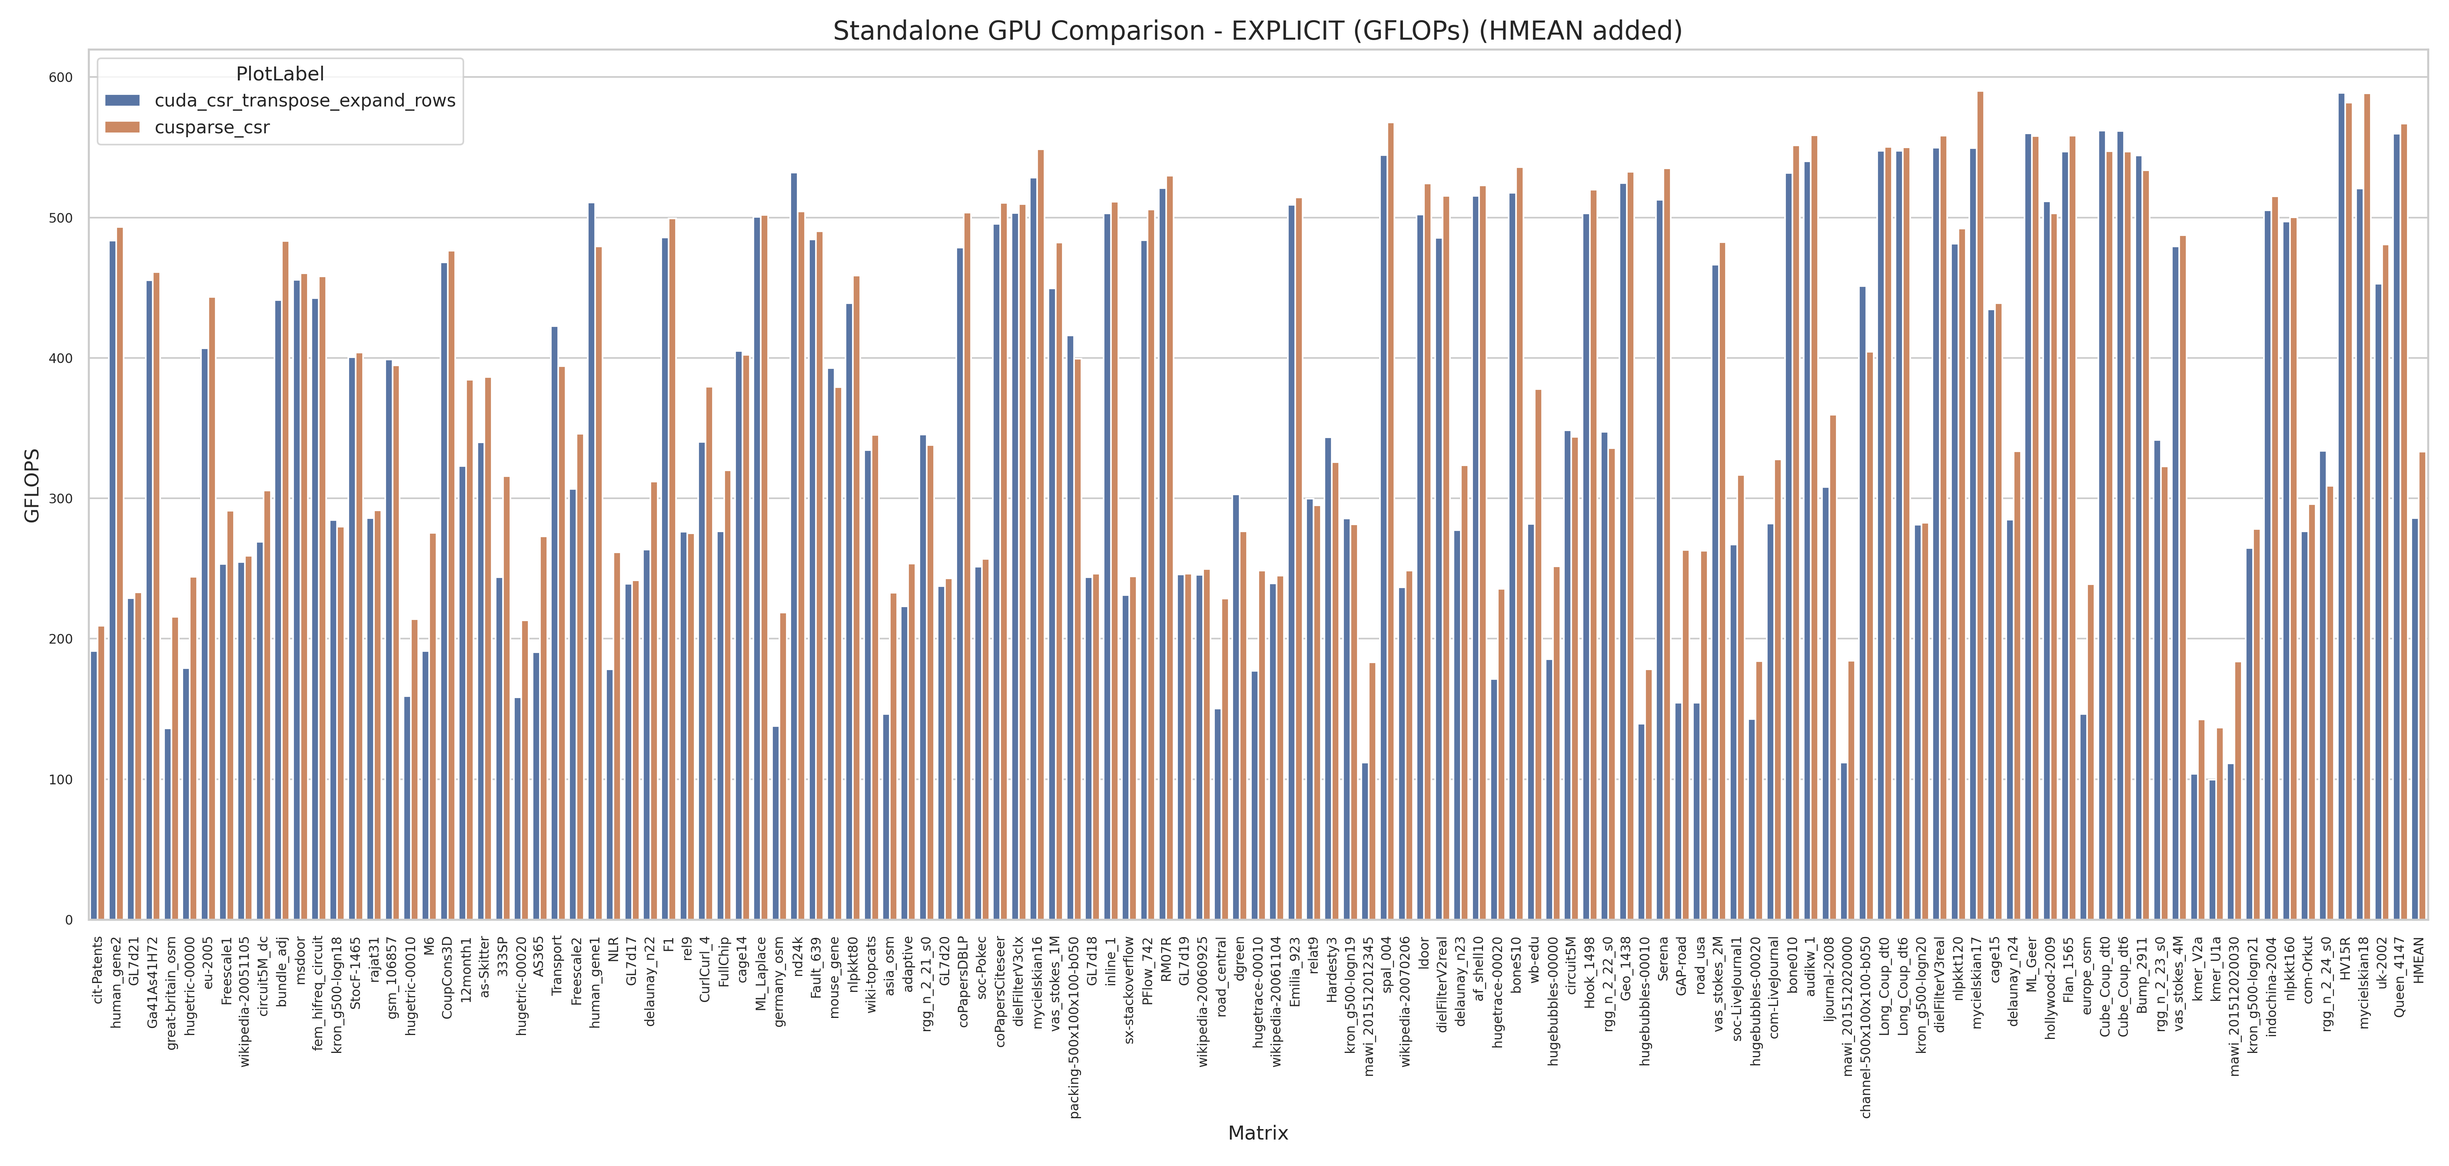
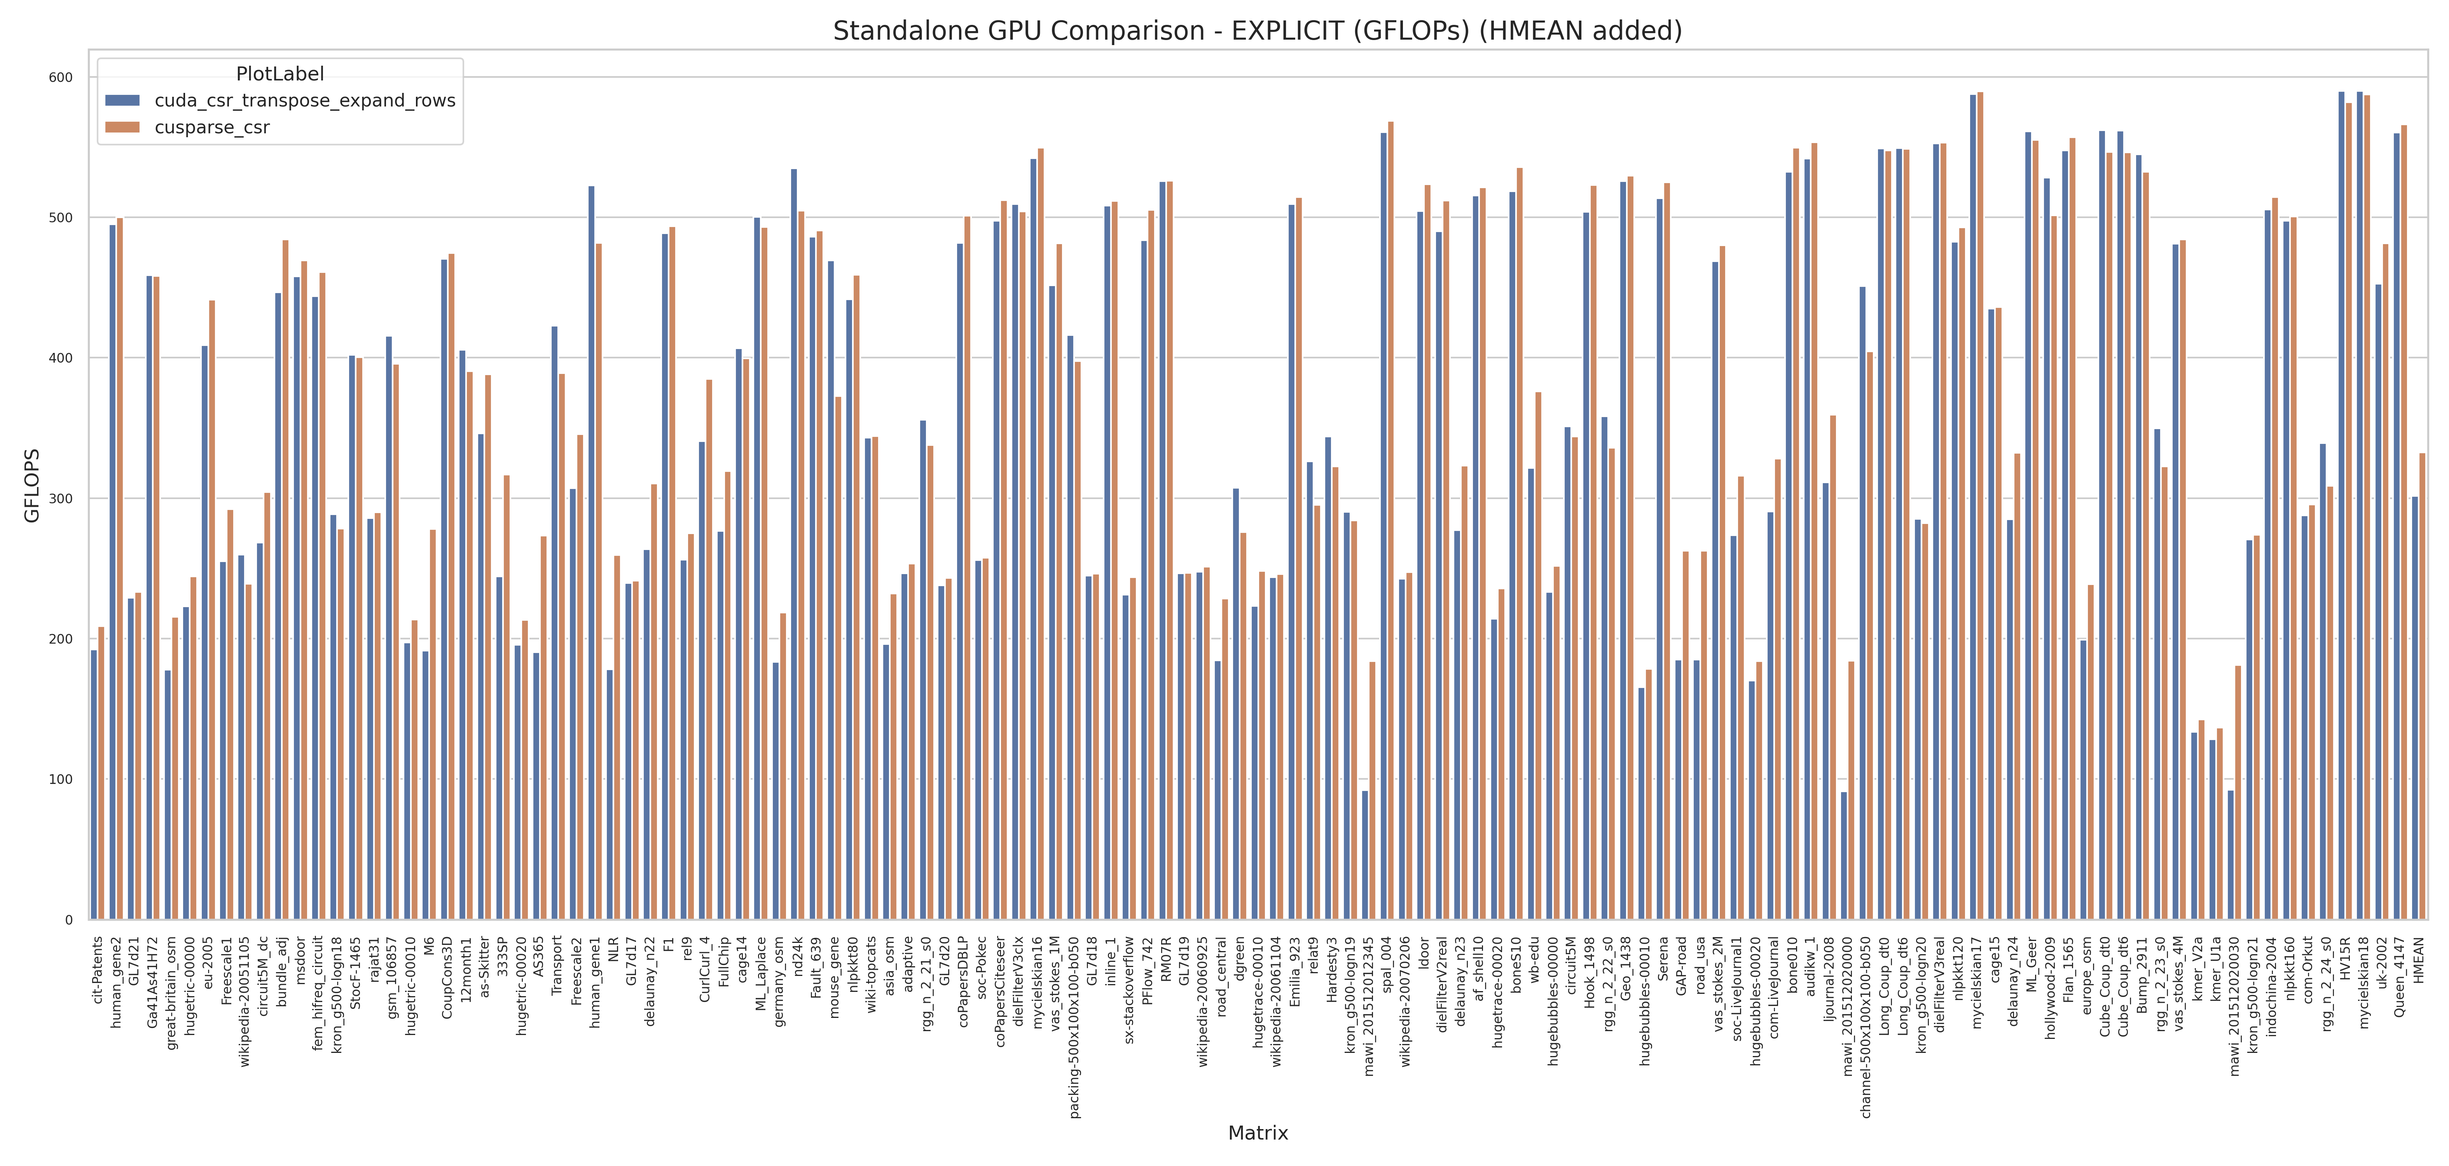
Fixed parsing script and produced plots after re-running everything from scratch

Changed region(s): [[0.6844, 0.558, 0.7156, 0.62], [0.9022, 0.651, 0.9333, 0.682], [0.1867, 0.31, 0.2178, 0.341]]

diff --git a/benchmark_code/BENCH_HYBRID/data_analysis/parse_and_plot_work_removal.py b/benchmark_code/BENCH_HYBRID/data_analysis/parse_and_plot_work_removal.py
@@ -39,6 +39,9 @@ def add_mean_row(df, metric, group_col, mean_type='hmean'):
 
     return pd.concat([df, pd.DataFrame(mean_rows)], ignore_index=True)
 
+'''
+Specifically parses logs formatted as standalone_*_REMOVE_*.out, extracting the removed rows/NNZ and remaining performance metrics.
+'''
 def parse_logs(log_dir):
     all_data = []
     matrix_order = []
@@ -47,94 +50,101 @@ def parse_logs(log_dir):
         print(f"Directory {log_dir} does not exist.")
         return pd.DataFrame(), []
 
-    filenames = sorted(os.listdir(log_dir))
+    run_dirs = [d for d in os.listdir(log_dir) if os.path.isdir(os.path.join(log_dir, d)) and d.startswith('run')]
+    if not run_dirs:
+        run_dirs = ['.']
 
-    for filename in filenames:
-        if not filename.endswith('.out'):
-            continue
-            
-        m = re.match(r'^(COLIND0_)?standalone_(.*?)_REMOVE_(NONE|CONTIGUOUS|SHORTEST|BAD_ZONES_ROWS|BAD_ZONES_BW|BAD_ZONES_CL|BAD_ZONES_PAD)(?:_(\d+))?_MALLOC_nv_d\.out$', filename)
-        if not m:
-            continue
-            
-        is_colind0 = bool(m.group(1))
-        kernel = m.group(2)
-        method_raw = m.group(3)
-        ratio = int(m.group(4)) if m.group(4) else None
-        
-        if is_colind0:
-            if method_raw != 'NONE':
+    for run_name in sorted(run_dirs):
+        current_run_path = os.path.join(log_dir, run_name)
+        if not os.path.isdir(current_run_path): continue
+        filenames = sorted(os.listdir(current_run_path))
+
+        for filename in filenames:
+            if not filename.endswith('.out'):
                 continue
-            method = 'COLIND0'
-        else:
-            method_map = {
-                'NONE': 'Original',
-                'CONTIGUOUS': 'Contiguous',
-                'SHORTEST': 'Shortest',
-                'BAD_ZONES_ROWS': 'Bad zones (Rows)',
-                'BAD_ZONES_BW': 'Bad zones (BW)',
-                'BAD_ZONES_CL': 'Bad zones (CL)',
-                'BAD_ZONES_PAD': 'Bad zones (Pad)'
-            }
-            method = method_map.get(method_raw)
-        
-        filepath = os.path.join(log_dir, filename)
-        with open(filepath, 'r') as f:
-            content = f.read()
+                
+            m = re.match(r'^(COLIND0_)?standalone_(.*?)_REMOVE_(NONE|CONTIGUOUS|SHORTEST|BAD_ZONES_ROWS|BAD_ZONES_BW|BAD_ZONES_CL|BAD_ZONES_PAD)(?:_(\d+))?_MALLOC_nv_d\.out$', filename)
+            if not m:
+                continue
+                
+            is_colind0 = bool(m.group(1))
+            kernel = m.group(2)
+            method_raw = m.group(3)
+            ratio = int(m.group(4)) if m.group(4) else None
             
-            blocks = content.split('------------------------\n')
-            for block in blocks[1:]:
-                lines = block.strip().split('\n')
-                if len(lines) < 2: continue
+            if is_colind0:
+                if method_raw != 'NONE':
+                    continue
+                method = 'COLIND0'
+            else:
+                method_map = {
+                    'NONE': 'Original',
+                    'CONTIGUOUS': 'Contiguous',
+                    'SHORTEST': 'Shortest',
+                    'BAD_ZONES_ROWS': 'Bad zones (Rows)',
+                    'BAD_ZONES_BW': 'Bad zones (BW)',
+                    'BAD_ZONES_CL': 'Bad zones (CL)',
+                    'BAD_ZONES_PAD': 'Bad zones (Pad)'
+                }
+                method = method_map.get(method_raw)
+            
+            filepath = os.path.join(current_run_path, filename)
+            with open(filepath, 'r') as f:
+                content = f.read()
+            
+                blocks = content.split('------------------------\n')
+                for block in blocks[1:]:
+                    lines = block.strip().split('\n')
+                    if len(lines) < 2: continue
                 
-                matrix_path = lines[0]
-                matrix_name = os.path.basename(matrix_path).replace('.mtx', '')
-                if matrix_name not in matrix_order:
-                    matrix_order.append(matrix_name)
+                    matrix_path = lines[0]
+                    matrix_name = os.path.basename(matrix_path).replace('.mtx', '')
+                    if matrix_name not in matrix_order:
+                        matrix_order.append(matrix_name)
                     
-                b_gflops = None
-                b_time = None
-                b_m_gpu, b_nnz_gpu = None, None
-                b_m_rem, b_nnz_rem = None, None
-                b_avg_nnz_gpu = None
+                    b_gflops = None
+                    b_time = None
+                    b_m_gpu, b_nnz_gpu = None, None
+                    b_m_rem, b_nnz_rem = None, None
+                    b_avg_nnz_gpu = None
                 
-                rem_match = re.search(r'Removed:\s+(?P<rows>\d+)\s+rows.*?,?\s+(?P<nnz>\d+)\s+NNZs', block)
-                if rem_match:
-                    b_m_rem = int(rem_match.group('rows'))
-                    b_nnz_rem = int(rem_match.group('nnz'))
+                    rem_match = re.search(r'Removed:\s+(?P<rows>\d+)\s+rows.*?,?\s+(?P<nnz>\d+)\s+NNZs', block)
+                    if rem_match:
+                        b_m_rem = int(rem_match.group('rows'))
+                        b_nnz_rem = int(rem_match.group('nnz'))
                     
-                gpu_match = re.search(r'GPU:\s+(?P<rows>\d+)\s+rows.*?,?\s+(?P<nnz>\d+)\s+NNZs.*avg NNZ/row:\s+(?P<avg>[\d\.]+)', block)
-                if gpu_match:
-                    b_m_gpu = int(gpu_match.group('rows'))
-                    b_nnz_gpu = int(gpu_match.group('nnz'))
-                    b_avg_nnz_gpu = float(gpu_match.group('avg'))
+                    gpu_match = re.search(r'GPU:\s+(?P<rows>\d+)\s+rows.*?,?\s+(?P<nnz>\d+)\s+NNZs.*avg NNZ/row:\s+(?P<avg>[\d\.]+)', block)
+                    if gpu_match:
+                        b_m_gpu = int(gpu_match.group('rows'))
+                        b_nnz_gpu = int(gpu_match.group('nnz'))
+                        b_avg_nnz_gpu = float(gpu_match.group('avg'))
                 
-                g_match = re.search(r'GFLOPS = (?P<val>[\d\.]+)', block)
-                if g_match:
-                    b_gflops = float(g_match.group('val'))
+                    g_match = re.search(r'GFLOPS = (?P<val>[\d\.]+)', block)
+                    if g_match:
+                        b_gflops = float(g_match.group('val'))
                     
-                t_match = re.search(r'time iter: min=.*?, median=(?P<val>[\d\.e\-]+),', block)
-                if t_match:
-                    b_time = float(t_match.group('val')) * 1000.0 # to ms
+                    t_match = re.search(r'time iter: min=.*?, median=(?P<val>[\d\.e\-]+),', block)
+                    if t_match:
+                        b_time = float(t_match.group('val')) * 1000.0 # to ms
 
-                pad_match = re.search(r'\(padding\s+([\d\.]+)\)', block)
-                b_padding = float(pad_match.group(1)) if pad_match else np.nan
+                    pad_match = re.search(r'\(padding\s+([\d\.]+)\)', block)
+                    b_padding = float(pad_match.group(1)) if pad_match else np.nan
 
-                if b_gflops is not None:
-                    all_data.append({
-                        'Matrix': matrix_name,
-                        'Method': method,
-                        'Ratio': ratio,
-                        'GFLOPS': b_gflops,
-                        'Time_ms': b_time,
-                        'm_gpu': b_m_gpu,
-                        'nnz_gpu': b_nnz_gpu,
-                        'removed_rows': b_m_rem,
-                        'removed_nnz': b_nnz_rem,
-                        'avg_nnz_gpu': b_avg_nnz_gpu,
-                        'Padding_Pct': b_padding,
-                        'Kernel': kernel
-                    })
+                    if b_gflops is not None:
+                        all_data.append({
+                            'Matrix': matrix_name,
+                            'Method': method,
+                            'Ratio': ratio,
+                            'GFLOPS': b_gflops,
+                            'Time_ms': b_time,
+                            'm_gpu': b_m_gpu,
+                            'nnz_gpu': b_nnz_gpu,
+                            'removed_rows': b_m_rem,
+                            'removed_nnz': b_nnz_rem,
+                            'avg_nnz_gpu': b_avg_nnz_gpu,
+                            'Padding_Pct': b_padding,
+                            'Kernel': kernel
+                        })
                     
     raw_df = pd.DataFrame(all_data)
     if raw_df.empty:
@@ -181,6 +191,9 @@ def plot_performance(df, plot_dir, ratios, matrix_order, method_order, metric='G
         plt.savefig(os.path.join(plot_dir, f'work_removal_{metric.lower()}_ratio_{int(r):02d}.png'), dpi=300)
         plt.close()
 
+'''
+Plots the execution time reduction compared to the expected theoretical reduction (e.g., if 10% of work is removed, is execution time reduced by 10% or more?).
+'''
 def plot_time_ratio_change(df, plot_dir, ratios, matrix_order, method_order):
     os.makedirs(plot_dir, exist_ok=True)
 
@@ -243,6 +256,9 @@ def plot_time_ratio_change(df, plot_dir, ratios, matrix_order, method_order):
         plt.savefig(os.path.join(plot_dir, f'time_reduction_ratio_{int(r):02d}.png'), dpi=300)
         plt.close()
 
+'''
+Visualizes the percentage increase in GFLOPS when difficult work is removed.
+'''
 def plot_gflops_pct_change(df, plot_dir, ratios, matrix_order, method_order):
     os.makedirs(plot_dir, exist_ok=True)
 
@@ -303,6 +319,9 @@ def plot_gflops_pct_change(df, plot_dir, ratios, matrix_order, method_order):
         plt.savefig(os.path.join(plot_dir, f'gflops_pct_change_ratio_{int(r):02d}.png'), dpi=300)
         plt.close()
 
+'''
+Visualizes how much actual non-zero workload is removed when targeting specific structural anomalies ("bad zones").
+'''
 def plot_bad_zones_nnz_pct(df, plot_dir, matrix_order):
     bz_methods = ["Bad zones (Rows)", "Bad zones (BW)", "Bad zones (CL)", "Bad zones (Pad)"]
     for bz_method in bz_methods:
@@ -399,6 +418,9 @@ def analyze_colind0(df, colind0_df, plot_dir, matrix_order):
 
     return comp_df
 
+'''
+Focuses specifically on the BAD_ZONES_PAD strategy, analyzing how removing highly-padded zones decreases the overall padding penalty and improves GFLOPS.
+'''
 def analyze_pad_implementation(df, plot_dir):
     pad_df = df[df['Method'] == 'Bad zones (Pad)'].dropna(subset=['Ratio']).copy()
     if pad_df.empty:
@@ -610,6 +632,9 @@ def plot_best_method_overall(df, plot_dir, matrix_order, sort_by_pct=False):
     plt.savefig(os.path.join(plot_dir, filename), dpi=300)
     plt.close()
 
+'''
+Generates a "Scorecard" (Win rate, Geometric mean of GFLOPS change, and Regression rate) to rank the effectiveness of the various removal strategies.
+'''
 def quantify_method_performance(df, plot_dir, ratios):
     methods_df = df[df['Method'] != 'Original'].dropna(subset=['GFLOPs_Change_%']).copy()
     if methods_df.empty:

diff --git a/benchmark_code/BENCH_HYBRID/data_analysis/parse_and_plot.py b/benchmark_code/BENCH_HYBRID/data_analysis/parse_and_plot.py
@@ -23,6 +23,9 @@ TITLE_FONT_SIZE = 16
 LABEL_FONT_SIZE = 12
 PLT_WIDTH, PLT_HEIGHT = 21, 10
 
+'''
+Reads .out log files, extracting matrix names, execution times, GFLOPS, partitioning ratios, and kernel types using regex.
+'''
 def parse_logs(log_dir, subdir=None):
     all_data = []
     matrix_order = []
@@ -322,6 +325,9 @@ def plot_standalone_cpu_comparison(df, plot_dir, full_matrix_order):
     plt.savefig(os.path.join(plot_dir, '2_standalone_cpu_comparison.png'), dpi=300)
     plt.close()
 
+'''
+Generates bar charts comparing the standalone GPU performance against hybrid executions for various offload ratios.
+'''
 def plot_hybrid_ratios(df, standalone_explicit, plot_dir, full_matrix_order, gpu_kernel, cpu_kernel, impl_types=['MALLOC'], strategy='NAIVE'):
     print(f"Plotting Hybrid Ratios (Strategy: {strategy})...")
     hybrid_df = df[(df['IsHybrid'] == True) & (df['Strategy'] == strategy)]
@@ -354,6 +360,9 @@ def plot_hybrid_ratios(df, standalone_explicit, plot_dir, full_matrix_order, gpu
                 plt.savefig(os.path.join(plot_dir, f'3_hybrid_{strategy}_{cpu_kernel}_{gpu_kernel}_{t}_vs_standalone_ratio_{r}.png'), dpi=300)
                 plt.close()
 
+'''
+Identifies the optimal CPU/GPU ratio for each matrix and plots the absolute GFLOPS over the standalone GPU baseline.
+'''
 def plot_best_hybrid_gflops(df, standalone_explicit, plot_dir, full_matrix_order, gpu_kernel, cpu_kernel, impl_types=['MALLOC'], strategy='NAIVE'):
     print(f"Plotting Best Hybrid GFLOPs (Strategy: {strategy})...")
     hybrid_df = df[(df['IsHybrid'] == True) & (df['Strategy'] == strategy)]
@@ -394,6 +403,9 @@ def plot_best_hybrid_gflops(df, standalone_explicit, plot_dir, full_matrix_order
             plt.savefig(os.path.join(plot_dir, f'4_best_hybrid_{strategy}_{cpu_kernel}_{gpu_kernel}_{t}_vs_standalone_gflops.png'), dpi=300)
             plt.close()
 
+'''
+Identifies the optimal CPU/GPU ratio for each matrix and plots the percentage improvement over the standalone GPU baseline.
+'''
 def plot_best_hybrid_pct(df, standalone_explicit, plot_dir, full_matrix_order, gpu_kernel, cpu_kernel, impl_types=['MALLOC'], sort_by_pct=False, strategy='NAIVE'):
     suffix = "_sorted" if sort_by_pct else ""
     print(f"Plotting Best Hybrid Percentage Change (Strategy: {strategy}){suffix}...")
@@ -476,6 +488,9 @@ def plot_best_hybrid_pct(df, standalone_explicit, plot_dir, full_matrix_order, g
                 analysis_df.to_csv(analysis_csv, index=False)
                 print(f"Detailed analysis saved to: {analysis_csv}")
 
+'''
+Identifies the absolute best strategy (among all implemented strategies and ratios) per matrix and visualizes the percentage speedup.
+'''
 def plot_overall_best_hybrid_pct(df, standalone_explicit, plot_dir, full_matrix_order, gpu_kernel, cpu_kernel, impl_types=['MALLOC'], sort_by_pct=True):
     suffix = "_sorted" if sort_by_pct else ""
     print(f"Plotting Overall Best Hybrid Percentage Change{suffix}...")
@@ -530,6 +545,9 @@ def plot_overall_best_hybrid_pct(df, standalone_explicit, plot_dir, full_matrix_
             plt.savefig(os.path.join(plot_dir, f'5_overall_best_hybrid_{cpu_kernel}_{gpu_kernel}_{t}_vs_standalone_pct{suffix}.png'), dpi=300)
             plt.close()
 
+'''
+Directly compares the different partitioning strategies side-by-side for a given offload ratio.
+'''
 def plot_strategy_comparison(df, plot_dir, full_matrix_order, gpu_kernel, cpu_kernel, alloc_type='MALLOC'):
     print(f"Plotting Strategy Comparison ({alloc_type}) for GPU={gpu_kernel}, CPU={cpu_kernel}...")
     target_df = df[(((df['GPU_Kernel'] == gpu_kernel) & (df['CPU_Kernel'] == cpu_kernel)) |
@@ -569,6 +587,9 @@ def plot_strategy_comparison(df, plot_dir, full_matrix_order, gpu_kernel, cpu_ke
         plt.savefig(os.path.join(strat_compare_dir, f'strat_compare_{alloc_type}_ratio_{r}.png'), dpi=300)
         plt.close()
 
+'''
+Compares performance between runs that utilize NUMA pinning/prefetching versus old runs without it.
+'''
 def plot_pinning_comparison(log_dir, plot_dir, gpu_kernel, cpu_kernel, matrix_order, alloc_type='MALLOC', strategy='NAIVE'):
     print(f"Plotting Pinning Comparison ({alloc_type}, {strategy}) for GPU={gpu_kernel}, CPU={cpu_kernel}...")
     df_new, _ = parse_logs(log_dir)
@@ -640,16 +661,16 @@ if __name__ == "__main__":
     #     exit()
 
     # --- Pinning Comparison ---
-    plot_pinning_comparison(log_dir, plot_dir, GPU_KERNEL, CPU_KERNEL, matrix_order, alloc_type='MALLOC', strategy='NAIVE')
+    # plot_pinning_comparison(log_dir, plot_dir, GPU_KERNEL, CPU_KERNEL, matrix_order, alloc_type='MALLOC', strategy='NAIVE')
   
     full_matrix_order = matrix_order + ['HMEAN', 'GMEAN', 'MEAN']
     sns.set_theme(style="whitegrid")
     df['Matrix'] = pd.Categorical(df['Matrix'], categories=full_matrix_order, ordered=True)
     
     # Plot standalone comparisons first
-    # plot_standalone_gpu_comparison(df, plot_dir, full_matrix_order, alloc_type='EXPLICIT')
-    # plot_standalone_gpu_comparison(df, plot_dir, full_matrix_order, alloc_type='MALLOC')
-    # plot_standalone_cpu_comparison(df, plot_dir, full_matrix_order)
+    plot_standalone_gpu_comparison(df, plot_dir, full_matrix_order, alloc_type='EXPLICIT')
+    plot_standalone_gpu_comparison(df, plot_dir, full_matrix_order, alloc_type='MALLOC')
+    plot_standalone_cpu_comparison(df, plot_dir, full_matrix_order)
 
     # --- Strategy Comparison ---
     plot_strategy_comparison(df, plot_dir, full_matrix_order, GPU_KERNEL, CPU_KERNEL, alloc_type='MALLOC')
